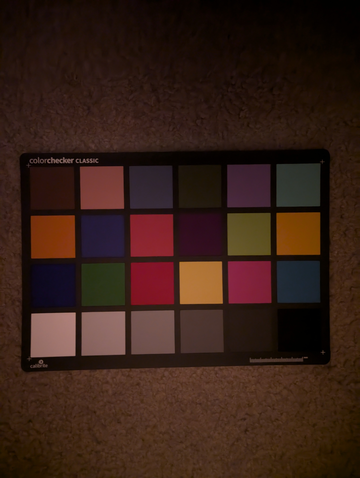
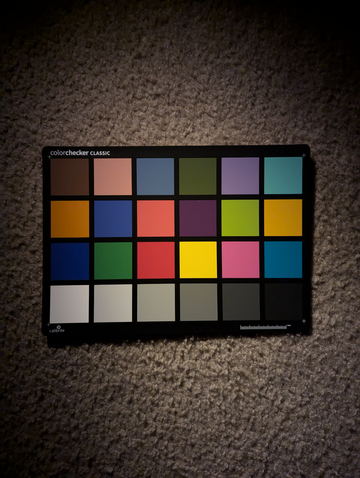
FLX1: Update colorchecker low temp low light images

diff --git a/content/FuriLabs-FLX1.md b/content/FuriLabs-FLX1.md
@@ -126,7 +126,7 @@ The phone does not support libcamera or megapixels like other linux phones. Inst
 | Light | Description |
 |-------|-------------|
 | Medium | Convoy S21B 3rd click pointed at ceiling |
-| Low    | Emisar DW4 Minimum pointed at ceiling |
+| Low    | Emisar DW4 Minimum brightness. Ceiling for superman. Direct at distance for color checker |
 
 ## Superman Normal Temp Medium Light
 
@@ -142,13 +142,13 @@ The phone does not support libcamera or megapixels like other linux phones. Inst
 
 ## Color Normal Temp Medium Light
 
-| FLX1 | Pixel 6| iPhone 12 |
-|------|--------|-----------|
+| FLX1 | Pixel 6 | iPhone 12 |
+|------|---------|-----------|
 | {{ resize_image(path="/images/camera/flx1/flx1_colorchecker_b35am_5000k_medium_light.jpg", width=360, alt="FLX1 Color Checker B35AM 5000k Medium Light") }} | {{ resize_image(path="/images/camera/pixel_6/pixel_6_colorchecker_b35am_5000k_medium_light.jpg", width=360, alt="Pixel 6 Color Checker B35AM 5000k Medium Light") }} | {{ resize_image(path="/images/camera/iphone_12/iphone_12_colorchecker_b35am_5000k_medium_light.png", width=360, alt="iPhone 12 Color Checker B35AM 5000k Medium Light") }} |
 
 ## Color Low Temp Low Light
 
-| FLX1 | Pixel 6 (6 seconds) | iPhone 12 (10 seconds) |
+| FLX1 | Pixel 6 | iPhone 12 (3 seconds) |
 |------|---------------------|------------------------|
 | {{ resize_image(path="/images/camera/flx1/flx1_colorchecker_519a_2500k_low_light.jpg", width=360, alt="FLX1 Color Checker 519A 2500k Low Light") }} | {{ resize_image(path="/images/camera/pixel_6/pixel_6_colorchecker_519a_2500k_low_light.jpg", width=360, alt="Pixel 6 Color Checker 519A 2500k Low Light") }} | {{ resize_image(path="/images/camera/iphone_12/iphone_12_colorchecker_519a_2500k_low_light.png", width=360, alt="iPhone 12 Color Checker 519A 2500k Low Light") }} |
 
